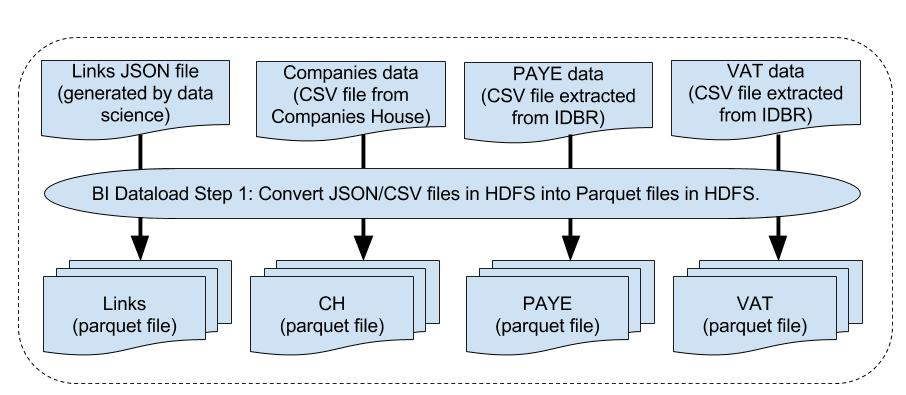
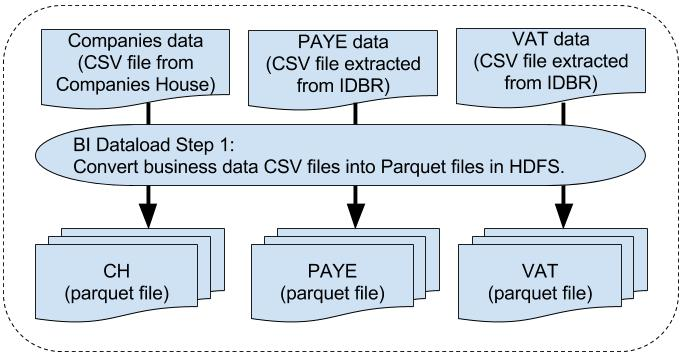
Change docs to reflect new Links pre-processing step.

diff --git a/docs/bi-dataload-step-0.md b/docs/bi-dataload-step-0.md
@@ -1,0 +1,96 @@
+# BI Dataload step 0: pre-process Links #
+
+
+![MacDown Screenshot](./BI-data-ingestion-Spark-flow-step-0.jpg)
+
+* [README](../README.md)
+
+> * [Step 0](./bi-dataload-step-0.md).
+> * [Step 1](./bi-dataload-step-1.md).
+> * [Step 2](./bi-dataload-step-2.md).
+> * [Step 3](./bi-dataload-step-3.md).
+
+## Links data (from data science)##
+
+* Links will be generated by the data science process and provided in a nested JSON format like this:
+
+> `{"CH":["COMPANYNO"],"VAT":["VATREFERENCE"],"PAYE":["PAYEREFERENCE"]}`
+  
+* In theory, there could be several VAT or PAYE entries for a given UBRN.
+* We expect there only to be ONE Company for each UBRN i.e. there is no real need for the "CH" field to be a list here.
+
+## UBRN allocation ##
+
+### What is the UBRN for? ###
+
+* The UBRN is intended to be a unique reference number that will apply to a given set of linked business records i.e. each Link generated from the data science process should have its own UBRN.
+* It should be a unique numeric value provided from a sequence.
+* It should also be consistent over time i.e. if the same Link appears in a subsequent run of the BI ingestion process, it should receive the oiriginal UBRN, not a new one.
+* The intention is that end users would in future use the UBRN to identify the business data they are interested in.
+* There are no specific user requirements for the UBRN, so the management and use of this value may change in future.
+
+### Challenges for UBRN generation ###
+
+* The BI data ingestion process runs on a distributed Cloudera/HDFS/Spark platform.
+* This creates challenges for generating the sequence value, compared to the relatively straightforward mechanisms avalable on a non-distributed platform (such as a database sequence on Oracle RDBMS).
+* It is not practical to generate a unique contiguous sequence number on a distributed platform, because at any given time the system cannot be sure that a sequence value generated on one node has not already been used by a process running on another node.
+
+### Generating the UBRN ###
+
+* We have implemented a work-around using Apache Spark's "monotonically increasing ID" generator.
+* This works by generating a unique value which is partly determined by the specific server node it is running on (it is similar to a standard UUID in this respect).
+* This means that the system knows that each node has its own sub-set of sequence numbers, so it only needs to ensure the new value is unique on the relevant node.
+* The drawback is that this creates very high sequence values from the outset.
+* We get around this by re-partitioning the Link data onto a single node prior to generating the sequence numbers.
+* We then allocate the UBRN to the data on a single node, which forces the sequence into a single range of values.
+* After allocating the UBRN, we re-partition the data across multiple partitions again to allow more efficient subsequent processing.
+* This approach creates a bottle-neck in our data-processing, but seems like the only practical way to meet the apparent requirement for the UBRN currently.
+
+## Month 1 processing (March-April 2017) ##
+
+* The first time we run the monthly data-load, we will be working with a completely fresh set of Links provided by the Data Science process.
+* There will be no data for any previous month's run.
+* We therefore assume we can allocate UBRNs freely, without worrying about clashing with any previous values because there are no previous values.
+* So the month 1 process is:
+
+>> * Read the incoming Links JSON file into Spark. 
+>> * Pass the data through our UBRN allocation process.
+>> * Write the data to a Links Parquet file.
+
+* The Links Parquet file will be processed further by a later step in the overall BI data ingestion pipeline.
+
+
+## Month 2+ processing (NOT YET IMPLEMENTED) ##
+
+* The plan is that when we load subsequent sets of Links from the data science process, we will try to match any Links that have already been loaded previously.
+* This will involve looking at the Links wth UBRNs that have been loaded previously.
+* There will be business rules to determine whether a link should re-use an existing UBRN, or be allocated a fresh UBRN.
+* It is not currently clear how or where the old Links data will be stored, but presumably it will be held somewhere in HDFS.
+* **Further work is required here to identify the detailed requirements and design an appropriate solution**.
+
+## Running step 0 ##
+
+### Oozie task specification ###
+
+* We use Oozie to execute the Spark processing on Cloudera.
+* Each step is defined as a separate task in the work-flow.
+* Step 0 should be defined as indicated below.
+
+#### Oozie Task Definition ####
+
+* Assumes files are installed in HDFS `hdfs://dev4/user/appUser`.
+* This example specifies 6 Spark executors to ensure sufficient resources when loading the JSON file, as JSON-processing is quite demanding.
+* It may be possible to tweak the various Spark memory settings to use less memory, but this configuration seems to work OK with current data-sets.
+
+Page 1 Field | Contents
+------------- | -------------
+Spark Master  | yarn-cluster
+Mode  | cluster
+App Name | ONS BI Dataload 1.1 Step 0 Pre-process Links
+Jars/py files | hdfs://dev4/user/appUser/libs/business-index-dataload_2.10-1.1.jar
+Main class | uk.gov.ons.bi.dataload.PreprocessLinksApp
+
+Page 2 Field | Contents
+------------- | -------------
+Properties / Options list | --num-executors 6 --driver-memory 3G --executor-memory 3G --driver-java-options "-Xms1g -Xmx5g"
+

diff --git a/docs/bi-dataload-step-1.md b/docs/bi-dataload-step-1.md
@@ -1,10 +1,11 @@
-# BI Dataload step 1: convert raw data to Parquet files #
+# BI Dataload step 1: convert business data to Parquet files #
 
 
 ![MacDown Screenshot](./BI-data-ingestion-Spark-flow-step-1.jpg)
 
 * [README](../README.md)
 
+> * [Step 0](./bi-dataload-step-0.md).
 > * [Step 1](./bi-dataload-step-1.md).
 > * [Step 2](./bi-dataload-step-2.md).
 > * [Step 3](./bi-dataload-step-3.md).
@@ -14,11 +15,17 @@
 * Initially, the application will consume data in different text-based formats.
 * PAYE and VAT data will be provided via CSV extracts from the IDBR.
 * Companies House data will be provided from the monthly CSV extract from the Companies House website.
-* Links between CH and PAYE/VAT data are provided as a JSON file which is generated from a separate machine learning application.
 * We will be processing the data with Apache Spark on Cloudera.
 * Spark can process Parquet files much more flexibly and efficiently than raw CSV or JSON data.
 * Also, the incoming data formats may change.
 * We convert the incoming files to Parquet as a first step, so that we can perform subsequent processing steps more efficiently.
+
+### Links data pre-processed separately ###
+
+* Links between CH and PAYE/VAT data are provided as a JSON file which is generated from a separate machine learning application.
+* However, Linbks require extra pre-processing which is performed in [step 0](./bi-dataload-step-0.md).
+* We do not process Links data in step 1.
+
 
 ## How? ##
 
@@ -46,18 +53,12 @@
 
 ### Data formats ###
 
-* Links data is provided in a nested JSON format like this:
-
-`{"UBRN":"12345678","CH":["COMPANYNO"],"VAT":["VATREFERENCE"],"PAYE":["PAYEREFERENCE"]}`
-  
-* The UBRN is currently generated as part of the Linking process (this may change).
-* In theory, there could be several VAT or PAYE entries for a given UBRN.
-* We expect there only to be ONE Company for each UBRN i.e. there is no real need for the "CH" field to be a list here.
 * VAT and PAYE data is currently provided in a CSV format generated from the IDBR.
 * Companies House data is provided in a [publicly available CSV format](http://resources.companieshouse.gov.uk/toolsToHelp/pdf/freeDataProductDataset.pdf).
 * We copy ALL fields from the source data and store them in the corresponding Parquet files.
-* Parquet files hodl their data schema, and store data in a compressed columnar format.
-* This means subsequent processing steps can select specific columns much more efficiently without having to load the entire data-set e.g. for joining the Links to CH/PAYE/VAT data.
+* Parquet files hold their data schema, and store data in a compressed columnar format.
+* This means subsequent processing steps can select specific columns much more efficiently without having to load the entire data-set e.g. for joining the Links to CH/PAYE/VAT data in [step 2](./bi-dataload-step-2.md).
+
 
 #### Column headings ####
 
@@ -91,9 +92,6 @@
 #### Oozie Task Definition ####
 
 * Assumes files are installed in HDFS `hdfs://dev4/user/appUser`.
-* Current implementation completes Step 1 in around 7 minutes on the Dev4 cluster.
-* Most of this time is taken for loading the Links file, because processing JSON demands more resources than loading the CSV data.
-* This example specifies 8 Spark executors to ensure sufficient resources when loading the JSON file.
 * It may be possible to tweak the various Spark memory settings to use less memory, but this configuration seems to work OK with current data-sets.
 
 Page 1 Field | Contents

diff --git a/README.md b/README.md
@@ -82,6 +82,29 @@
 * The application is executed as a 3-step Oozie workflow.
 * The individual steps and their Oozie task parameters are documented separately below.
 
+
+## Data file locations ##
+
+* All files are held in HDFS.
+* The locations are specified via various configuration properties.
+* These have default values in the `src/main/resources/application.conf` file.
+* They can be modified via environment variables - see the configuration file for details.
+* We can also provide values at runtime here using "-D" Java options in the Oozie task specification.
+* For example, to set the source data directory:
+
+> * `--driver-java-options "-Ddataload.src-data.dir=./bi-data"`
+
+* The default directory structure is:
+
+> *  `bi-data`
+
+>> * `CH`: Companies House CSV file(s) - CH download is multiple files.
+>> * `LINKS`: Links JSON file
+>> * `PAYE`: PAYE CSV file
+>> * `VAT`: VAT CSV file
+>> * `WORKINGDATA`:  All generated Parquet files.
+
+
 ## Detailed processing ##
 
 * [Step 1: Load raw data to parquet files](./docs/bi-dataload-step-1.md)

diff --git a/docs/bi-dataload-step-2.md b/docs/bi-dataload-step-2.md
@@ -5,6 +5,7 @@
 
 * [README](../README.md)
 
+> * [Step 0](./bi-dataload-step-0.md).
 > * [Step 1](./bi-dataload-step-1.md).
 > * [Step 2](./bi-dataload-step-2.md).
 > * [Step 3](./bi-dataload-step-3.md).

diff --git a/docs/bi-dataload-step-3.md b/docs/bi-dataload-step-3.md
@@ -3,6 +3,7 @@
 
 * [README](../README.md)
 
+> * [Step 0](./bi-dataload-step-0.md).
 > * [Step 1](./bi-dataload-step-1.md).
 > * [Step 2](./bi-dataload-step-2.md).
 > * [Step 3](./bi-dataload-step-3.md).
